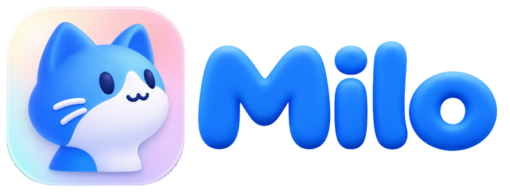
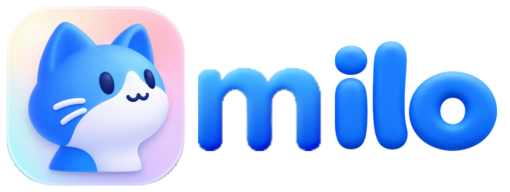
Use lowercase milo in the site wordmark

Changed region(s): [[0.3824, 0.2188, 0.6765, 0.8125]]

diff --git a/site/src/index.html b/site/src/index.html
@@ -33,7 +33,7 @@
         <header class="masthead">
           <div class="lockup">
             <img class="brand-lockup" src="./images/milo-lockup.webp" width="510" height="192" alt="" fetchpriority="high">
-            <h1 id="title" class="visually-hidden">Milo</h1>
+            <h1 id="title" class="visually-hidden">milo</h1>
           </div>
         <a class="source" href="https://github.com/mcc0x/milo">
           <svg class="source-mark" viewBox="0 0 24 24" aria-hidden="true"><path d="M12 .297c-6.63 0-12 5.373-12 12 0 5.303 3.438 9.8 8.205 11.385.6.113.82-.258.82-.577 0-.285-.01-1.04-.015-2.04-3.338.724-4.042-1.61-4.042-1.61C4.422 18.07 3.633 17.7 3.633 17.7c-1.087-.744.084-.729.084-.729 1.205.084 1.838 1.236 1.838 1.236 1.07 1.835 2.809 1.305 3.495.998.108-.776.417-1.305.76-1.605-2.665-.3-5.466-1.332-5.466-5.93 0-1.31.465-2.38 1.235-3.22-.135-.303-.54-1.523.105-3.176 0 0 1.005-.322 3.3 1.23.96-.267 1.98-.399 3-.405 1.02.006 2.04.138 3 .405 2.28-1.552 3.285-1.23 3.285-1.23.645 1.653.24 2.873.12 3.176.765.84 1.23 1.91 1.23 3.22 0 4.61-2.805 5.625-5.475 5.92.42.36.81 1.096.81 2.22 0 1.606-.015 2.896-.015 3.286 0 .315.21.69.825.57C20.565 22.092 24 17.592 24 12.297c0-6.627-5.373-12-12-12"/></svg>
